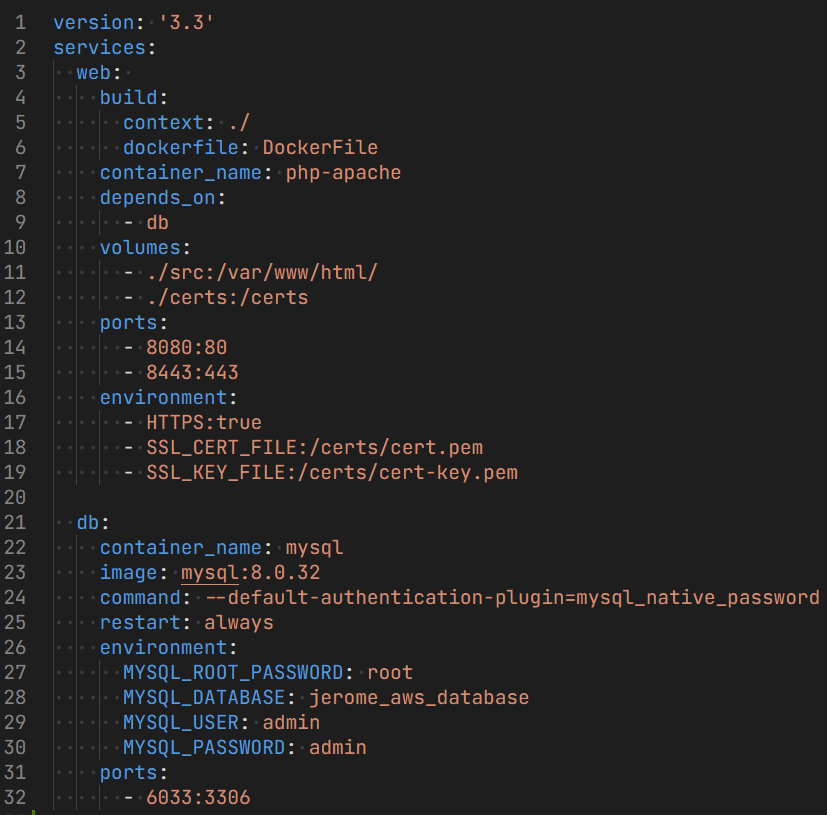
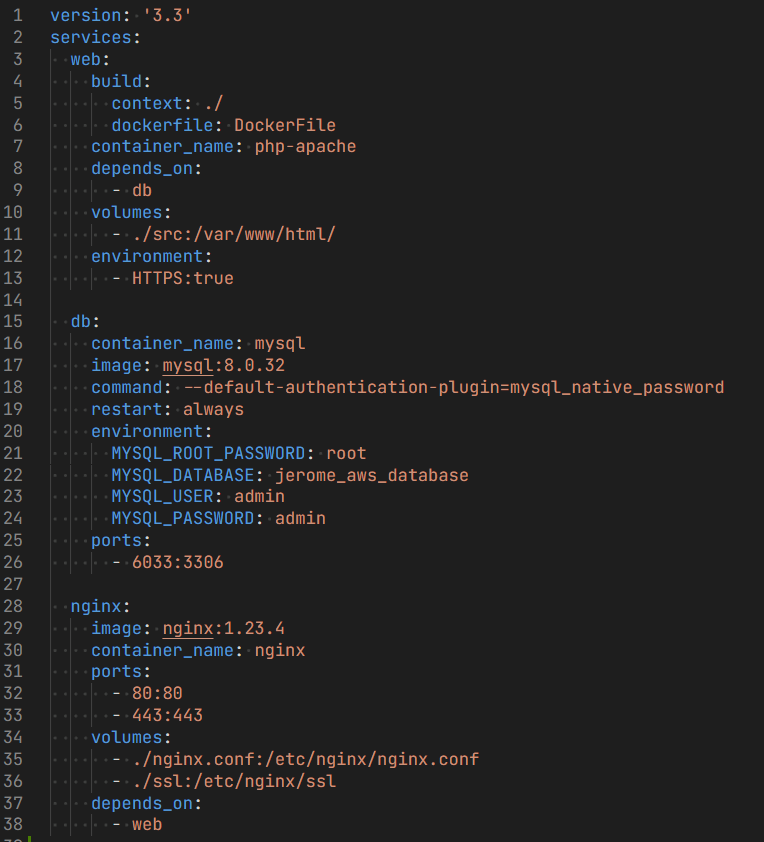
alcune modifiche

diff --git a/src/index.html b/src/index.html
@@ -17,7 +17,7 @@
 
   <div class="container-fluid mt-4 vh-100" id="main-container">
     <!-- sidebar  -->
-    <div class="row">
+    <section class="row">
       <aside class="col-md-2 d-none d-md-block bg-light sidebar sticky-element">
         <ul class="list-unstyled ps-0">
           <li class="mb-1">
@@ -33,7 +33,7 @@
             </div>
           </li>
           <li class="mb-1">
-            <button class="btn btn-toggle align-items-center rounded" data-bs-toggle="collapse" data-bs-target="#setup-e2c-collapse" aria-expanded="true" onclick="goToSection('setup-e2c')">
+            <button class="btn btn-toggle align-items-center rounded" data-bs-toggle="collapse" data-bs-target="#setup-e2c-collapse" aria-expanded="true" onclick="goTodiv('setup-e2c')">
               Set up E2C instace on aws
             </button>
             <div class="collapse show" id="setup-e2c-collapse" style="">
@@ -45,25 +45,27 @@
             </div>
           </li>
           <li class="mb-1">
-            <button class="btn btn-toggle align-items-center rounded" data-bs-toggle="collapse" data-bs-target="#setup-webserver-collapse" aria-expanded="true" onclick="goToSection('setup-webserver')">
+            <button class="btn btn-toggle align-items-center rounded" data-bs-toggle="collapse" data-bs-target="#setup-webserver-collapse" aria-expanded="true" onclick="goTodiv('setup-webserver')">
               Set up web server
             </button>
             <div class="collapse show" id="setup-webserver-collapse" style="">
               <ul class="btn-toggle-nav list-unstyled fw-normal pb-1 small">
                 <li><a href="#setup-webserver-1" class="link-dark rounded">Docker installation and configuration</a></li>
                 <li><a href="#setup-webserver-2" class="link-dark rounded">Dockerfile and docker-compose</a></li>
+                <li><a href="#nginx-conf" class="link-dark rounded">Nginx configuration</a></li>
                 <li><a href="#setup-webserver-3" class="link-dark rounded">How I deployed my website</a></li>
               </ul>
             </div>
           </li>
           <li class="mb-1">
-            <button class="btn btn-toggle align-items-center rounded" data-bs-toggle="collapse" data-bs-target="#https-support-collapse" aria-expanded="true" onclick="goToSection('https-support')">
+            <button class="btn btn-toggle align-items-center rounded" data-bs-toggle="collapse" data-bs-target="#https-support-collapse" aria-expanded="true" onclick="goTodiv('https-support')">
               Add SSL/TLS support
             </button>
             <div class="collapse show" id="https-support-collapse" style="">
               <ul class="btn-toggle-nav list-unstyled fw-normal pb-1 small">
                 <li><a href="#create-ca" class="link-dark rounded">Create selft-signed CA</a></li>
                 <li><a href="#ca-docker-compose" class="link-dark rounded">In docker-compose</a></li>
+                <li><a href="#ca-nginx" class="link-dark rounded">In nginx configuration</a></li>
               </ul>
             </div>
           </li>
@@ -74,7 +76,7 @@
       <!-- main content -->
       <main class="col-md-10 ms-sm-auto col-lg-10 px-md-5">
 
-        <section id="get-started">
+        <div id="get-started">
           <h1># Getting Started</h1>
           <p>Here's my repository: <a href="https://github.com/jeromebandril/jerome-aws-website" target="_blank"> https://github.com/jeromebandril/jerome-aws-website </a></p>
           <div>
@@ -92,12 +94,10 @@
             </li>
             </ul>
           </div>
-     
-          <a href="test.html">ciao</a>
-        </section>
+        </div>
 
         <section id="setup-e2c">
-          <section>
+          <div>
             <h1># Set up E2C instace on aws</h1>
             <h2 id="launch-instance">Launch an instance</h2>
             Prima di tutto ci si connette alla console dell'aws e si cerca il servizio E2C.
@@ -119,8 +119,8 @@
               </li>
             </ol>
             <img src="assets/img/e2c_2.png" alt="">
-          </section>   
-          <section>
+          </div>   
+          <div>
             <h2 id="conf-firewall">Configure firewall</h2>
             Iniziamo a configurare il firewall:
             andiamo a modificare le regole in entrata per permettere i clients di connettersi al nostro sito web,
@@ -133,8 +133,8 @@
             nella 4 regole che abbiamo appena aggiunto  selezioniamo come source <mark>Anywhere - Ipv4</mark> (ossia 0.0.0.0/0), che significa
             che apriamo la connessione a tutti i dispositivi con ipv4. Salviamo le regole in basso a destra.
             <img src="assets/img/e2c_4.png" alt="">
-          </section>
-          <section>
+          </div>
+          <div>
             <h2 id="ssh-conn"> Connect to Instance via SSH </h2>
             Ritorniamo alla schermata dashboard dell'istanza (quella cliccando all'id istanza) e clicchiamo il <mark>connect</mark> in alto a destra.
             Ci porterà in una pagina dove nella sezione <mark>SSH client</mark> vi sarà una mini guida su come connettersi via ssh all'istanza.
@@ -143,26 +143,28 @@
             directory dove la chiave è salvata ed eseguiamolo. Alla richiesta di conferma che seguirà scrivete 'yes'.
             <img src="assets/img/e2c_5.png" alt="">
             <img src="assets/img/e2c_6.png" alt="">
-          </section>
+          </div>
         </section>
         <section id="setup-webserver">
           <h1># Set up our server</h1>
           Entrati via ssh nella nostra macchina in remoto, possiamo iniziare a configurare il nostro server web.
           In una nuova macchina (ubuntu nel nostro caso) è buona prassi aggiornare i packages con i comandi
           <pre><code class="language-bash">sudo apt update && sudo apt upgrade -y</code></pre>
-          <section>
+          <div>
             <h2 id="setup-webserver-1">Docker installation e configuration</h2>
             Installiamo docker con:
             <pre><code class="language-bash">sudo apt install docker.io</code> </pre>
-            Anziché installare I docker images direttamente
+            Anziché installare I docker images direttamente,
             utilizzeremo DockerFile e docker-compose in modo da semplificare la configurazione e riprodurre
             uniformemente l'enviroment in modo distribuito se necessario.
-            Per eseguire un web server (apache) ho scelto di utillizzare l'immagine
-            php con tag apache (cioè php con apache inclusa) e l'immagine per mysql:
-            <a href="https://hub.docker.com/layers/library/php/8.2.5RC1-apache-buster/images/sha256-5083c1bf200c535d87b00ffd1a535cd7349395230d6d8132d423373c96a766ea?context=explore">php:8.2.5RC1-apache-buster</a>
-            e <a href="https://hub.docker.com/layers/library/mysql/8.0.32/images/sha256-c86dfd69b3d1437e5d192447f0bdc57407d48bd379b97a453e11d72b97962e3b?context=explore">mysql:8.0.32</a>
-          </section>
-          <section>
+            Per eseguire un web server (apache) ho scelto di utillizzare quersti docker images:
+            <ul>
+              <li>per mysql <a href="https://hub.docker.com/layers/library/mysql/8.0.32/images/sha256-c86dfd69b3d1437e5d192447f0bdc57407d48bd379b97a453e11d72b97962e3b?context=explore">mysql:8.0.32</a></li>
+              <li>php con tag apache (cioè php con apache inclusa) <a href="https://hub.docker.com/layers/library/php/8.2.5RC1-apache-buster/images/sha256-5083c1bf200c535d87b00ffd1a535cd7349395230d6d8132d423373c96a766ea?context=explore">php:8.2.5RC1-apache-buster</a>, che verrà poi linkata all'immagine di msql per permettere ai due container di comunicare</li>
+              <li>nginx, un webserver che però ho utilizzato come reverse proxy per inoltrare le richieste ad apache (alla fine non è servito a questo scopo, ma è stato utile per configurare il SSL e i CA in modo semplice) </li>
+            </ul>
+          </div>
+          <div>
             <h2 id="setup-webserver-2">Dockerfile e docker-compose</h2>
             Si usano questi file Dockerfile e docker-compose.yml per configurare i containers in modo automatico.
             Si crea quindi docker-compose.yml file nella directory root del nostro progetto web e si scrive
@@ -170,8 +172,18 @@
             <img src="assets/img/docker_1.png" alt="">
             e DockerFile file sempre nella root directory:
             <img src="assets/img/docker_2.png" alt="">
-          </section>
-          <section>
+          </div>
+          <div>
+            <h2 id="nginx-conf">NGINX configurarion</h2>
+            Nella root del nostro progetto web ho creato il file <mark>nginx.conf</mark>.
+            Questo codice è la configurazione di base per un server web Nginx che ascolta sulla porta 80 e instrada le 
+            richieste al servizio PHP Apache che ascolta sulla stessa porta. In particolare, la direttiva listen specifica la porta 
+            su cui il server ascolta, la direttiva server_name specifica il nome del server, e la direttiva location definisce come Nginx 
+            deve instradare le richieste HTTP al servizio PHP Apache tramite il proxy inverso. Le direttive proxy_set_header vengono 
+            utilizzate per impostare alcune intestazioni HTTP per le richieste inoltrate al servizio PHP Apache.
+            <img src="assets/img/nginx_1.png" alt="">
+          </div>
+          <div>
             <h2 id="setup-webserver-3">How I deployed my website</h2>
             Per spostare il nostro progetto all'interno del web server è possibile utillizare
             il protocollo ftps. Tuttavia per semplificazione, avendo il progetto già su
@@ -181,56 +193,50 @@
             A questo punto ci spostiamo in quella directory ed eseguiamo il file docker-compose con il comando:
             <pre><code class="language-bash">cd /var/www/html </code></pre>
             <pre><code class="language-bash">sudo docker-compose up</code></pre>
-          </section>
+            Per fermare i container si usa il comando:
+            <pre><code class="language-bash">sudo docker-compose stop</code></pre>
+            Adesso il mio sitoweb è raggiungibile via http. Nella schermata dashboard dell'istanza E2C si può recuperare l'url per raggiungere il sito.
+          </div>
         </section>
         <section id="https-support">
           <h1># Add SSL/TLS support</h1>
-          <section>
+          <div>
             <h2 id="create-ca">Create a self-signed certificate</h2>
-            Per creare un certificato autofirmato ho fatto utilizzo di <a href="https://www.openssl.org/">openSSL</a>.
-            Nella macchina locale si installa openssl con il comando:
-            <pre><code class="language-bash">sudo apt install openssl</code></pre>
             <ol>
+              <li>
+                Per creare un certificato autofirmato ho fatto utilizzo di <a href="https://www.openssl.org/">openSSL</a>.
+                Nella macchina locale si installa openssl con il comando:
+                <pre><code class="language-bash">sudo apt install openssl</code></pre>
+              </li>
               <li>
                 Si genera la chiave privata per il certificato (è importante mantenere segreto questa chiave poiché viene
                 utilizzata per firmare i certificati).
-                Dopo l'esecuzione del comando viene chiesto l'inserimento di una passphrase che aumenta ulteriormente la sicurezza.
-                (la chiave è crittografata utilizzando l'algoritmo simmetrico aes256, l'output è il file ca-key.pem e sarà
-                di lunghezza 4096 bits)
-                <pre><code class="language-bash">sudo openssl genrsa -aes256 -out ca-key.pem 4096</code></pre>
+                <pre><code class="language-bash">sudo openssl genrsa -out mykey.key 4096</code></pre>
               </li>
               <li>
-                Si genera il certificato self-signed pubblico che servirà come root CA (il certificato è valido per 3650 giorni e l'output è nel file ca.pem).
-                <pre><code class="language-bash">sudo req -new -x509 -sha256 -days 3650 -key ca-key.pem -out ca.pem</code></pre>
+                Si genera la richiesta di firma del certificato (output: mycsr.csr) 
+                <pre><code class="language-bash">sudo openssl req -new -key mykey.key -out mycsr.csr</code></pre>
               </li>
               <li>
-                Si genera la chiave privata RSA (di 4096 bit e l'output nel file cert-key.pem)
-                <pre><code class="language-bash">sudo openssl genrsa -out cert-key.pem 4096</code></pre>
-              </li>
-              <li>
-                Si crea una richiesta di firma del certificato (CSR certificate signing request).
-                <pre><code class="language-bash">sudo openssl req -new -sha256 -subj "/CN=your-name" -key cert-key.pem -out cert.csr</code></pre>
-              </li>
-              <li>
-                Si crea un extfile per le opzioni, in questo caso vogliamo assegnare il certificato ad uno specifico host (dns name e ip).
-                <pre><code class="language-bash">echo "subjectAltName=DNS:your-dns-name,IP:your-ip >> extfile.cnf </code></pre>
-              </li>
-              <li>
-                Si crea finalmente il certificato, firmato dal CA certificate e dalla chiave privata creati precedentemente.
-                <pre><code class="language-bash">sudo openssl x509 -req -sha256 -days 3650 -in cert.csr -CA ca.pem -CAkey ca-key.pem -out cert.pem -extfile extfile.cnf -CAcreateserial </code></pre>
+                Si genera il certificato self-signed pubblico (il certificato è valido per 365 giorni, output: mycert.crt).
+                <pre><code class="language-bash">openssl x509 -req -days 365 -in mycsr.csr -signkey mykey.key -out mycert.crt</code></pre>
               </li>
             </ol>
-          </section>
-          <section>
+          </div>
+          <div>
             <h2 id="ca-docker-compose">In docker-compose</h2>
-            Precedentemente nel docker-compose avevamo: montato in volumes <em>./certs</em>, dove saranno presenti i certificati; in enviroment avevamo abilitato
-            la connessione HTTPS e stabilito  i path del certificato e chiave per il web server.
+            Precedentemente nel docker-compose avevamo: montato come volume in nginx <em>./ssl</em>, in questo modo il suo contenuto è visibile dalla directory /etc/nginx/ssl/ (se ques'ultima cartella non esiste, possiamo crearla noi).
+            All'interno di ./ssl saranno presenti i certificati che ho appena creato. Inoltre ho abilitato HTTPS in apache. 
             <img src="assets/img/ca_1.png" alt="">
-          </section>
-        </section>
-        <section>
-          <h1>NGINX configuration</h1>
-          this configuration sets up a reverse proxy that listens on port 80 and forwards requests to the PHP Apache server running on port 8080.
+          </div>
+          <div>
+            <h2 id="ca-nginx">In nginx config</h2>
+            Si modifica il file <mark>nginx.conf</mark> in modo tale da accettare solo le connessioni in https:
+            questa confgurazione abilita la connessione HTTPS (HTTP sicuro) utilizzando un certificato SSL (Secure Sockets Layer) auto-firmato che abbiamo creato precedentemente. 
+            La configurazione è impostata per utilizzare la porta 443 per le connessioni HTTPS, quindi tutti i dati scambiati tra il client e il server saranno adesso crittografati.
+            Inoltre, il file SSL del certificato e la chiave privata sono specificati utilizzando le direttive "ssl_certificate" e "ssl_certificate_key", rispettivamente. 
+            <img src="assets/img/nginx_2.png" alt="">
+          </div>
         </section>
       </main>
     </div>

diff --git a/src/js/main.js b/src/js/main.js
@@ -1,11 +1,10 @@
-// $(document).ready(function() {
-//   // Check for session cookie
-//   if (!document.cookie.includes("session=")) {
-//     // Redirect to login page
-//     console.log("ciao");
-//     window.location.href = "./login.html";
-//   }
-// });
+$(document).ready(function() {
+  // Check for session cookie
+  if (!document.cookie.includes("session=")) {
+    // Redirect to login page
+    window.location.href = "./login.html";
+  }
+});
 
 function goToSection(id) {
   var button = document.querySelector(`button[data-bs-target="#${id}-collapse"]`);

diff --git a/src/js/login.js b/src/js/login.js
@@ -1,10 +1,9 @@
 // OPTIONS //
-const url = '../server/auth/login.php';
+const url = './server/auth/login.php';
 
 // LISTENER //
 $('#btn-submit').click((evt)=>{
   evt.preventDefault();
-  console.log("ciao");
   $.ajax({
     url: url,
     type: 'post',
@@ -17,7 +16,7 @@ $('#btn-submit').click((evt)=>{
     },
 
     error: (data) => {
-      //todo: mostra errore
+      console.log(data.responseText);
       let res = JSON.parse(data.responseText);
       console.log(res);
       if (res.is_success === 0) {

diff --git a/src/css/main.css b/src/css/main.css
@@ -103,3 +103,7 @@ img {
   display: block;
   width: 550px;
 }
+
+section {
+  margin-top: 60px;
+}

diff --git a/src/server/auth/login.php b/src/server/auth/login.php
@@ -5,7 +5,7 @@ require_once "../config/connection.php";
 session_start();
 
 $emailOrUsername = $_POST['email'];
-$psw = $_POST['password'];
+$psw = password_hash($_POST['password'], PASSWORD_DEFAULT); //bcrypt
 
 //TODO regex for email
 $query = 'SELECT id FROM users WHERE (email LIKE ? OR username LIKE ?) AND password_bcrypt LIKE ?';
@@ -21,8 +21,8 @@ if ($stmt->num_rows > 0) {
   $_SESSION['user_id'] = $userId;
 
   http_response_code(202);
-  echo json_encode(array('is_success' => 1, 'message' => 'success'));
+  echo json_encode(array('is_success' => 1, 'message' => 'success', 'pass' => $psw));
 } else {
   http_response_code(404);
-  echo json_encode(array('is_success' => 0, 'message' => 'email or password not correct'));
+  echo json_encode(array('is_success' => 0, 'message' => 'email or password not correct', 'pass' => $psw));
 }
